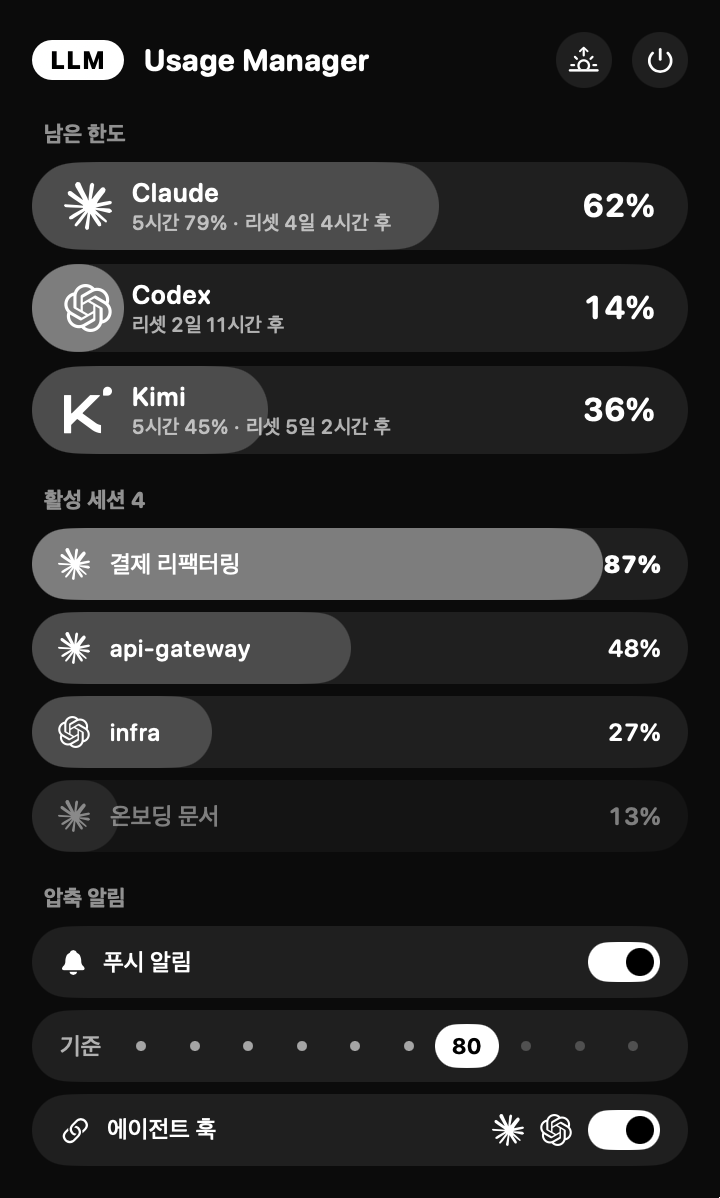
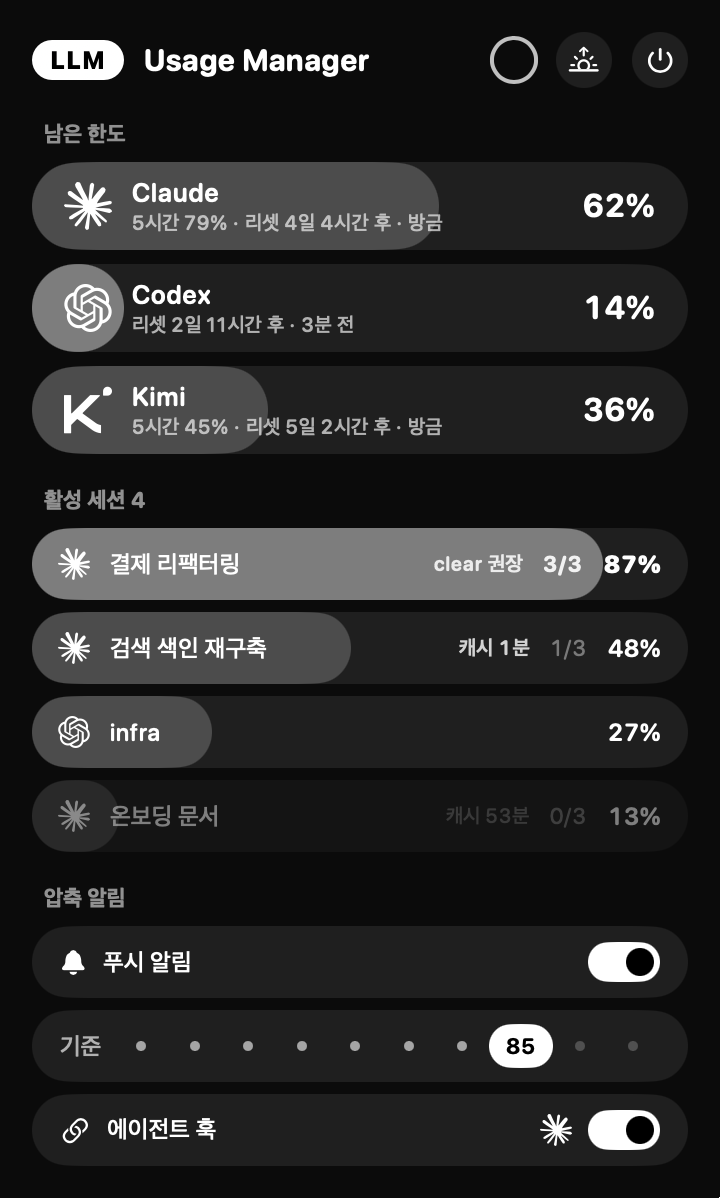
feat: name sessions the way the desktop app does, and drop the ones it replaced
Two things the transcript alone could not answer.

A renamed session records that name near the start of its transcript, and the reader
only ever looks at the end, so long sessions fell back to their folder name — two of
them showed as "argo". The desktop app keeps the name in its own metadata, so that is
where it is read from now. Terminal sessions still use the rename line, then the
folder name.

Clearing a session starts a new transcript and points the metadata at it. The replaced
file keeps its modification time for a while and sat in the list beside its successor,
carrying the old compaction count — one session appeared twice, once as "argo 4/3".
A transcript that no session's metadata points at is no longer listed, and neither is
an archived one. When the metadata cannot be read at all, nothing is hidden.

These files are half a megabyte each and there are hundreds of them; four fields are
wanted. Decoding them cost three seconds and 36MB, so the fields are lifted out of the
bytes and the files are mapped rather than copied: 118MB down to 95MB, against 82MB
before this change. The directories are watched, so a rename or a clear shows up at
once rather than at the next full scan.

README and the screenshot are brought up to date for everything since 2.1 — the
keychain credential and user agent, data age and the refresh ring, compaction counts
and the clear suggestion, cache validity, Claude-only hooks, and this change. A
[…]

diff --git a/Sources/UsageCore/DesktopSessions.swift b/Sources/UsageCore/DesktopSessions.swift
@@ -1,0 +1,118 @@
+import Foundation
+
+/// What the Claude desktop app knows about its own sessions, read from the metadata it
+/// writes beside them.
+///
+/// Two things the transcript alone cannot tell us:
+///
+/// - **The name the user sees.** A transcript records a renamed session in a
+///   `custom-title` line, but in a long session that line sits far from the end and the
+///   tail reader never reaches it, so the list fell back to the folder name.
+/// - **Whether a transcript is still the session's own.** Clearing a session starts a
+///   new transcript and points the metadata at it; the old file keeps its modification
+///   time for a while and would otherwise linger in the list beside its replacement,
+///   carrying the old compaction count.
+///
+/// Read-only, and only these four fields. The same metadata is mirrored into a second
+/// profile directory, so entries are de-duplicated by session id, newest kept.
+public struct DesktopMeta: Sendable, Equatable {
+    public let title: String
+    public let archived: Bool
+    public let activeAt: Date
+}
+
+public final class DesktopSessions: @unchecked Sendable {
+    private let roots: [String]
+    /// file path → (mtime, session id, meta) so a rescan only re-reads what changed;
+    /// there are hundreds of these files and parsing them all costs about three seconds.
+    private var seen: [String: (mtime: Date, sid: String, meta: DesktopMeta)] = [:]
+    private var byId: [String: DesktopMeta] = [:]
+    public private(set) var loaded = false
+
+    public init(home: String = Paths.home) {
+        roots = ["Claude Second", "Claude"].map {
+            home + "/Library/Application Support/\($0)/claude-code-sessions"
+        }
+    }
+
+    public static func directories(home: String = Paths.home) -> [String] {
+        DesktopSessions(home: home).roots
+    }
+
+    public func meta(_ sessionId: String) -> DesktopMeta? { byId[sessionId] }
+
+    /// True once metadata has been found at all. Until then the caller must not treat a
+    /// missing entry as "this session was replaced" — it may simply be unreadable here.
+    public var usable: Bool { loaded && !byId.isEmpty }
+
+    /// Value of a top-level key, read straight from the bytes. Enough for these four
+    /// fields; anything more structured would mean decoding the whole file again.
+    private static func value(_ data: Data, _ key: String) -> Data.SubSequence? {
+        guard let r = data.range(of: Data("\"\(key)\":".utf8)) else { return nil }
+        return data[r.upperBound...]
+    }
+
+    static func text(_ data: Data, _ key: String) -> String? {
+        guard var rest = value(data, key), rest.first == 0x22 else { return nil }
+        rest = rest.dropFirst()
+        var out = [UInt8](), escaped = false
+        for b in rest {
+            if escaped { out.append(b == 0x6E ? 0x0A : b); escaped = false; continue }
+            if b == 0x5C { escaped = true; continue }
+            if b == 0x22 { break }
+            out.append(b)
+        }
+        return String(decoding: out, as: UTF8.self)
+    }
+
+    static func flag(_ data: Data, _ key: String) -> Bool {
+        guard let rest = value(data, key) else { return false }
+        return rest.starts(with: Data("true".utf8))
+    }
+
+    static func number(_ data: Data, _ key: String) -> Double? {
+        guard let rest = value(data, key) else { return nil }
+        let digits = rest.prefix { (0x30...0x39).contains($0) || $0 == 0x2E || $0 == 0x2D }
+        return Double(String(decoding: digits, as: UTF8.self))
+    }
+
+    public func refresh() {
+        let fm = FileManager.default
+        var current: Set<String> = []
+        for root in roots {
+            guard let walker = fm.enumerator(atPath: root) else { continue }
+            for case let rel as String in walker where rel.hasSuffix(".json") {
+                let path = root + "/" + rel
+                guard (rel as NSString).lastPathComponent.hasPrefix("local_") else { continue }
+                current.insert(path)
+                let mtime = (try? fm.attributesOfItem(atPath: path))?[.modificationDate] as? Date
+                if let hit = seen[path], hit.mtime == mtime { continue }
+                // These files run to half a megabyte each — most of it lists of enabled
+                // tools — and there are hundreds. Decoding them all cost three seconds
+                // and tens of megabytes, so the four fields are lifted out of the bytes
+                // instead, and the file is released before the next one is opened.
+                autoreleasepool {
+                    // Mapped rather than copied: these are half a megabyte each and only
+                    // a few dozen bytes of each are wanted, so the pages can be dropped
+                    // again under pressure instead of sitting in the heap.
+                    guard let data = try? Data(contentsOf: URL(fileURLWithPath: path), options: .mappedIfSafe),
+                          let sid = Self.text(data, "cliSessionId"), !sid.isEmpty else { return }
+                    let meta = DesktopMeta(
+                        title: Self.text(data, "title") ?? "",
+                        archived: Self.flag(data, "isArchived"),
+                        activeAt: Date(timeIntervalSince1970: (Self.number(data, "lastActivityAt") ?? 0) / 1000))
+                    seen[path] = (mtime ?? .distantPast, sid, meta)
+                }
+            }
+        }
+        seen = seen.filter { current.contains($0.key) }
+        // One entry per session, keeping the profile that saw it most recently.
+        var merged: [String: DesktopMeta] = [:]
+        for (_, hit) in seen {
+            if let prev = merged[hit.sid], prev.activeAt >= hit.meta.activeAt { continue }
+            merged[hit.sid] = hit.meta
+        }
+        byId = merged
+        loaded = true
+    }
+}

diff --git a/Sources/UsageCore/LiveUsage.swift b/Sources/UsageCore/LiveUsage.swift
@@ -23,6 +23,9 @@ public struct SessionCtx: Sendable, Identifiable, Equatable {
     /// How many times this transcript has been compacted. Claude Code only — Codex
     /// rollouts record no compaction event.
     public let compactions: Int
+    /// Where `title` came from, for `--dump`: the desktop app's own metadata, the
+    /// transcript's rename line, or nothing (the folder name is then used).
+    public let titleSource: String
     /// How long the server keeps this session's prompt cache, and when the session
     /// last got a reply. Re-reading a cached prompt is cheap; once the cache lapses the
     /// next message writes the whole context again, which is what the quota feels.
@@ -102,12 +105,13 @@ public struct SessionCtx: Sendable, Identifiable, Equatable {
     public init(tool: ToolKind = .claudeCode, sessionId: String, project: String, title: String? = nil,
                 model: String, ctxTokens: Int, windowSize: Int, mtime: Date, compactions: Int = 0,
                 lastPostTokens: Int = 0, handoverSaved: Bool? = nil,
-                cacheTTL: TimeInterval = 0, lastReplyAt: Date? = nil) {
+                cacheTTL: TimeInterval = 0, lastReplyAt: Date? = nil, titleSource: String = "folder") {
         self.tool = tool; self.sessionId = sessionId; self.project = project; self.title = title
         self.model = model; self.ctxTokens = ctxTokens; self.windowSize = windowSize; self.mtime = mtime
         self.compactions = compactions
         self.lastPostTokens = lastPostTokens; self.handoverSaved = handoverSaved
         self.cacheTTL = cacheTTL; self.lastReplyAt = lastReplyAt
+        self.titleSource = titleSource
     }
 }
 
@@ -135,6 +139,7 @@ public final class LiveScanner: @unchecked Sendable {
     private var parsed: [String: (size: UInt64, s: SessionCtx?)] = [:]
     private var human: [String: (offset: UInt64, yes: Bool)] = [:]
     private var compacted: [String: (offset: UInt64, count: Int, post: Int)] = [:]
+    private let desktop = DesktopSessions()
     private var claudeWeekly: Limit?
     private var codexWeekly: Limit?
     private var lastFull = Date.distantPast
@@ -147,6 +152,7 @@ public final class LiveScanner: @unchecked Sendable {
     /// `changed == nil` → rescan what's known (and a full scan when due).
     public func scan(changed: [String]? = nil) -> LiveSnapshot {
         if Date().timeIntervalSince(lastFull) > fullEvery { fullScan() }
+        desktop.refresh()
         for p in changed ?? [] { touch(p) }
         let cutoff = Date().addingTimeInterval(-windowMinutes * 60)
         var sessions: [SessionCtx] = []
@@ -258,12 +264,23 @@ public final class LiveScanner: @unchecked Sendable {
         let sid = String((path as NSString).lastPathComponent.dropLast(6))
         let c = compactionScan(path: path)
         guard isHumanAttended(entrypoint: t.entrypoint, path: path) else { return nil }
-        return SessionCtx(tool: .claudeCode, sessionId: sid, project: Self.projectLabel(t.cwd), title: t.title,
+
+        // A desktop session's name lives in the app's metadata, which also says whether
+        // this transcript is still the one that session writes to. Clearing a session
+        // starts a new transcript and repoints the metadata; the old file stays on disk
+        // and would otherwise sit in the list beside its replacement.
+        var title = t.title
+        var source = t.title == nil ? "folder" : "custom-title"
+        if t.entrypoint == "claude-desktop", desktop.usable {
+            guard let m = desktop.meta(sid), !m.archived else { return nil }
+            if !m.title.isEmpty { title = m.title; source = "meta" }
+        }
+        return SessionCtx(tool: .claudeCode, sessionId: sid, project: Self.projectLabel(t.cwd), title: title,
                           model: t.model, ctxTokens: t.ctxTokens,
                           windowSize: claudeWindow(sid: sid, model: t.model, ctx: t.ctxTokens), mtime: .distantPast,
                           compactions: c.count, lastPostTokens: c.postTokens,
                           handoverSaved: Self.handoverSaved(sid: sid),
-                          cacheTTL: t.cacheTTL, lastReplyAt: t.repliedAt)
+                          cacheTTL: t.cacheTTL, lastReplyAt: t.repliedAt, titleSource: source)
     }
 
     /// Only human-attended sessions belong in the list. Transcript `entrypoint`:
@@ -471,6 +488,6 @@ private extension SessionCtx {
         SessionCtx(tool: tool, sessionId: sessionId, project: project, title: title, model: model,
                    ctxTokens: ctxTokens, windowSize: windowSize, mtime: mtime, compactions: compactions,
                    lastPostTokens: lastPostTokens, handoverSaved: handoverSaved,
-                   cacheTTL: cacheTTL, lastReplyAt: lastReplyAt)
+                   cacheTTL: cacheTTL, lastReplyAt: lastReplyAt, titleSource: titleSource)
     }
 }

diff --git a/Sources/UsageManager/AppModel.swift b/Sources/UsageManager/AppModel.swift
@@ -82,7 +82,10 @@ final class AppModel: ObservableObject {
         // reset countdowns, and runs the scanner's periodic full scan.
         let home = Paths.home
         try? FileManager.default.createDirectory(atPath: Paths.claudeStatus, withIntermediateDirectories: true)
-        watcher = FileWatcher(paths: [home + "/.claude/projects", home + "/.codex/sessions", Paths.claudeStatus],
+        // The desktop app's session metadata is watched too, so a rename or a cleared
+        // session shows up as soon as it happens rather than at the next full scan.
+        watcher = FileWatcher(paths: [home + "/.claude/projects", home + "/.codex/sessions", Paths.claudeStatus]
+                                + DesktopSessions.directories(home: home),
                               latency: 1.0) { [weak self] paths in
             MainActor.assumeIsolated { self?.refresh(changed: paths) }
         }
@@ -245,7 +248,7 @@ final class AppModel: ObservableObject {
             ProviderQuota(provider: "anthropic", weeklyPercent: 38, fiveHourPercent: 21,
                           resetsAt: now.addingTimeInterval(4.2 * 86400), updatedAt: now),
             ProviderQuota(provider: "openai", weeklyPercent: 86, fiveHourPercent: nil,
-                          resetsAt: now.addingTimeInterval(2.5 * 86400), updatedAt: now),
+                          resetsAt: now.addingTimeInterval(2.5 * 86400), updatedAt: now.addingTimeInterval(-180)),
             ProviderQuota(provider: "kimi", weeklyPercent: 64, fiveHourPercent: 55,
                           resetsAt: now.addingTimeInterval(5.1 * 86400), updatedAt: now),
         ]
@@ -253,14 +256,19 @@ final class AppModel: ObservableObject {
             SessionCtx(tool: .claudeCode, sessionId: "demo01", project: "storefront",
                        title: "결제 리팩터링", model: "claude-opus-5",
                        ctxTokens: 871_000, windowSize: 1_000_000, mtime: now, compactions: 3,
-                       lastPostTokens: 38_000, handoverSaved: true),
+                       lastPostTokens: 38_000, handoverSaved: true,
+                       cacheTTL: 3600, lastReplyAt: now.addingTimeInterval(-120), titleSource: "meta"),
             SessionCtx(tool: .claudeCode, sessionId: "demo02", project: "api-gateway",
-                       model: "claude-opus-5", ctxTokens: 486_000, windowSize: 1_000_000, mtime: now, compactions: 1),
+                       title: "검색 색인 재구축", model: "claude-opus-5",
+                       ctxTokens: 486_000, windowSize: 1_000_000, mtime: now, compactions: 1,
+                       lastPostTokens: 31_000, handoverSaved: nil,
+                       cacheTTL: 3600, lastReplyAt: now.addingTimeInterval(-3480), titleSource: "meta"),
             SessionCtx(tool: .codex, sessionId: "demo03", project: "infra",
                        model: "kimi/k3[1m]", ctxTokens: 274_000, windowSize: 996_147, mtime: now),
             SessionCtx(tool: .claudeCode, sessionId: "demo04", project: "docs",
                        title: "온보딩 문서", model: "claude-opus-5",
-                       ctxTokens: 132_000, windowSize: 1_000_000, mtime: now.addingTimeInterval(-400)),
+                       ctxTokens: 132_000, windowSize: 1_000_000, mtime: now.addingTimeInterval(-400),
+                       cacheTTL: 3600, lastReplyAt: now.addingTimeInterval(-400), titleSource: "meta"),
         ]
         tools = [.claudeCode, .codex]
         hooks = Hooks.Status(claude: true)

diff --git a/Sources/UsageManager/AppMain.swift b/Sources/UsageManager/AppMain.swift
@@ -104,7 +104,7 @@ final class AppDelegate: NSObject, NSApplicationDelegate {
         let wait = Int(max(0, ClaudeUsage.backoffUntil.timeIntervalSinceNow))
         print("claude-backoff:", wait > 0 ? "\(wait)s remaining" : "none")
         for s in snap.sessions {
-            print("session \(s.tool.display) \(s.label) \(Int(s.usedPercent))% \(s.ctxTokens)/\(s.windowSize) \(s.model) cache_ttl=\(Int(s.cacheTTL)) cache_left=\(s.cacheLeft.map { String(Int($0)) } ?? "-") last_ctx=\(s.ctxTokens) compactions=\(s.compactions) post=\(s.lastPostTokens) handover=\(s.handoverSaved.map(String.init) ?? "unknown") clear=\(s.needsClear(limit: limit)) idle=\(s.isIdle)")
+            print("session[\(s.shortId)] \(s.tool.display) \(s.label) \(Int(s.usedPercent))% \(s.ctxTokens)/\(s.windowSize) \(s.model) title_from=\(s.titleSource) cache_ttl=\(Int(s.cacheTTL)) cache_left=\(s.cacheLeft.map { String(Int($0)) } ?? "-") last_ctx=\(s.ctxTokens) compactions=\(s.compactions) post=\(s.lastPostTokens) handover=\(s.handoverSaved.map(String.init) ?? "unknown") clear=\(s.needsClear(limit: limit)) idle=\(s.isIdle)")
         }
         print("hooks:", Hooks.status())
     }
